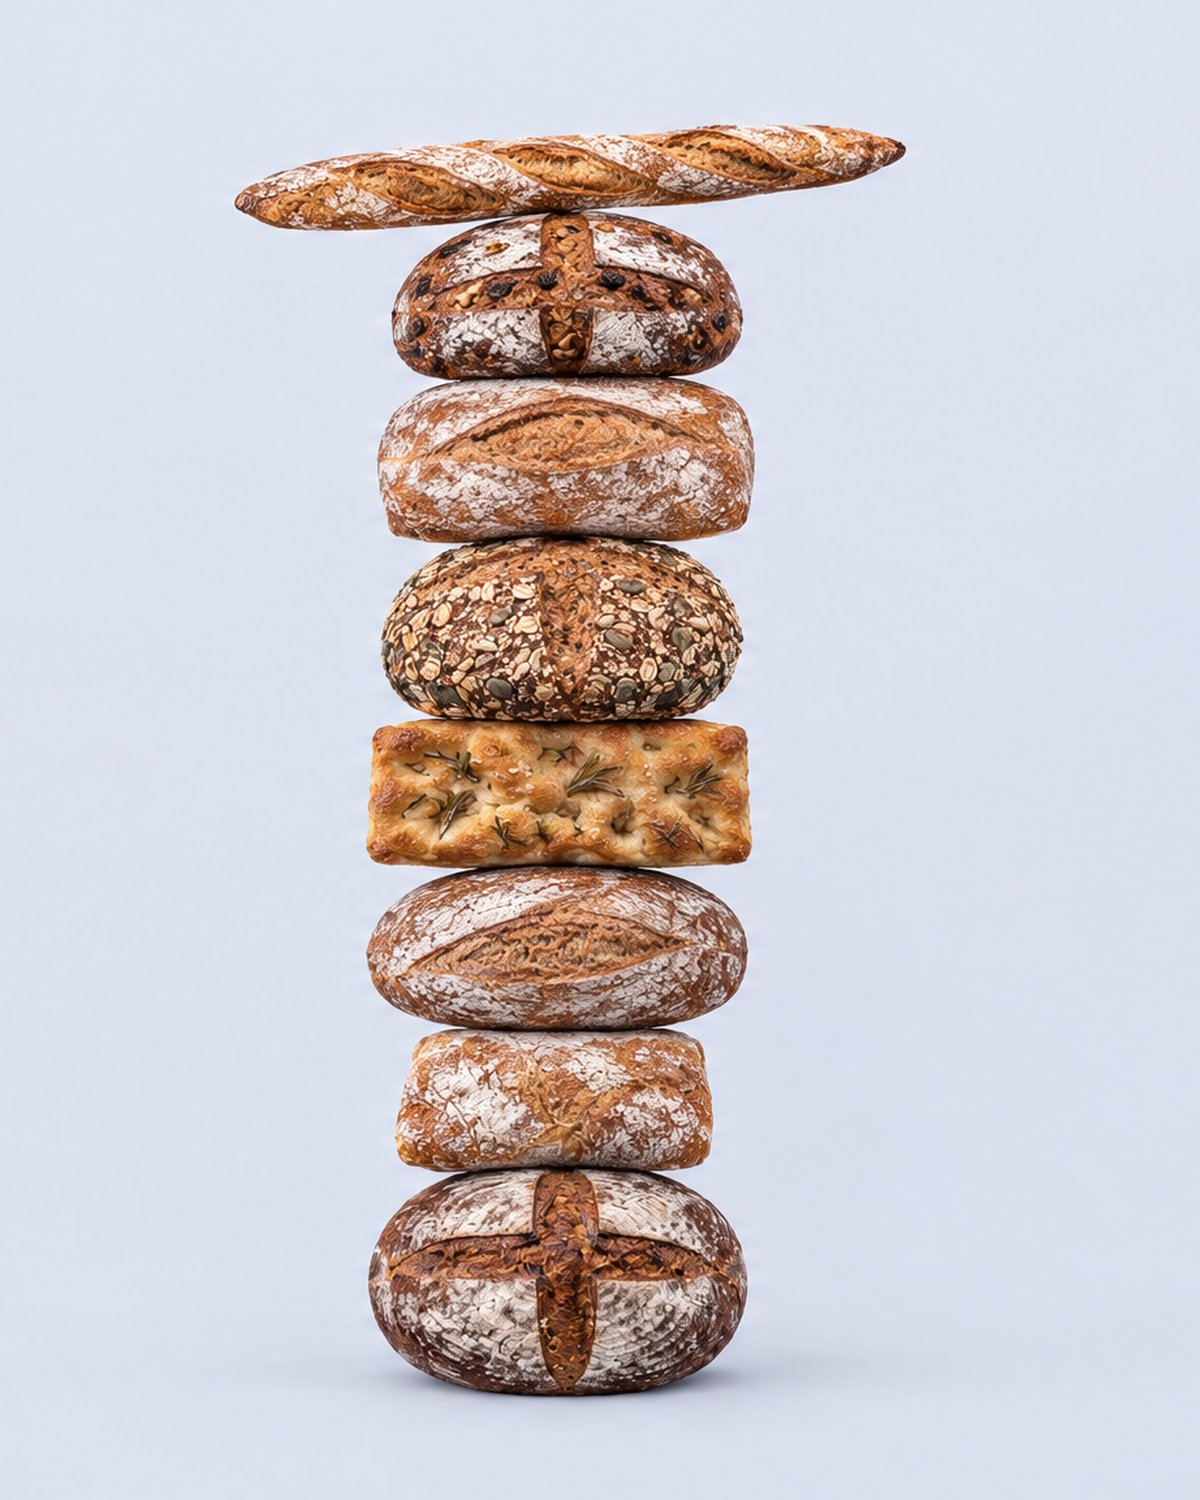
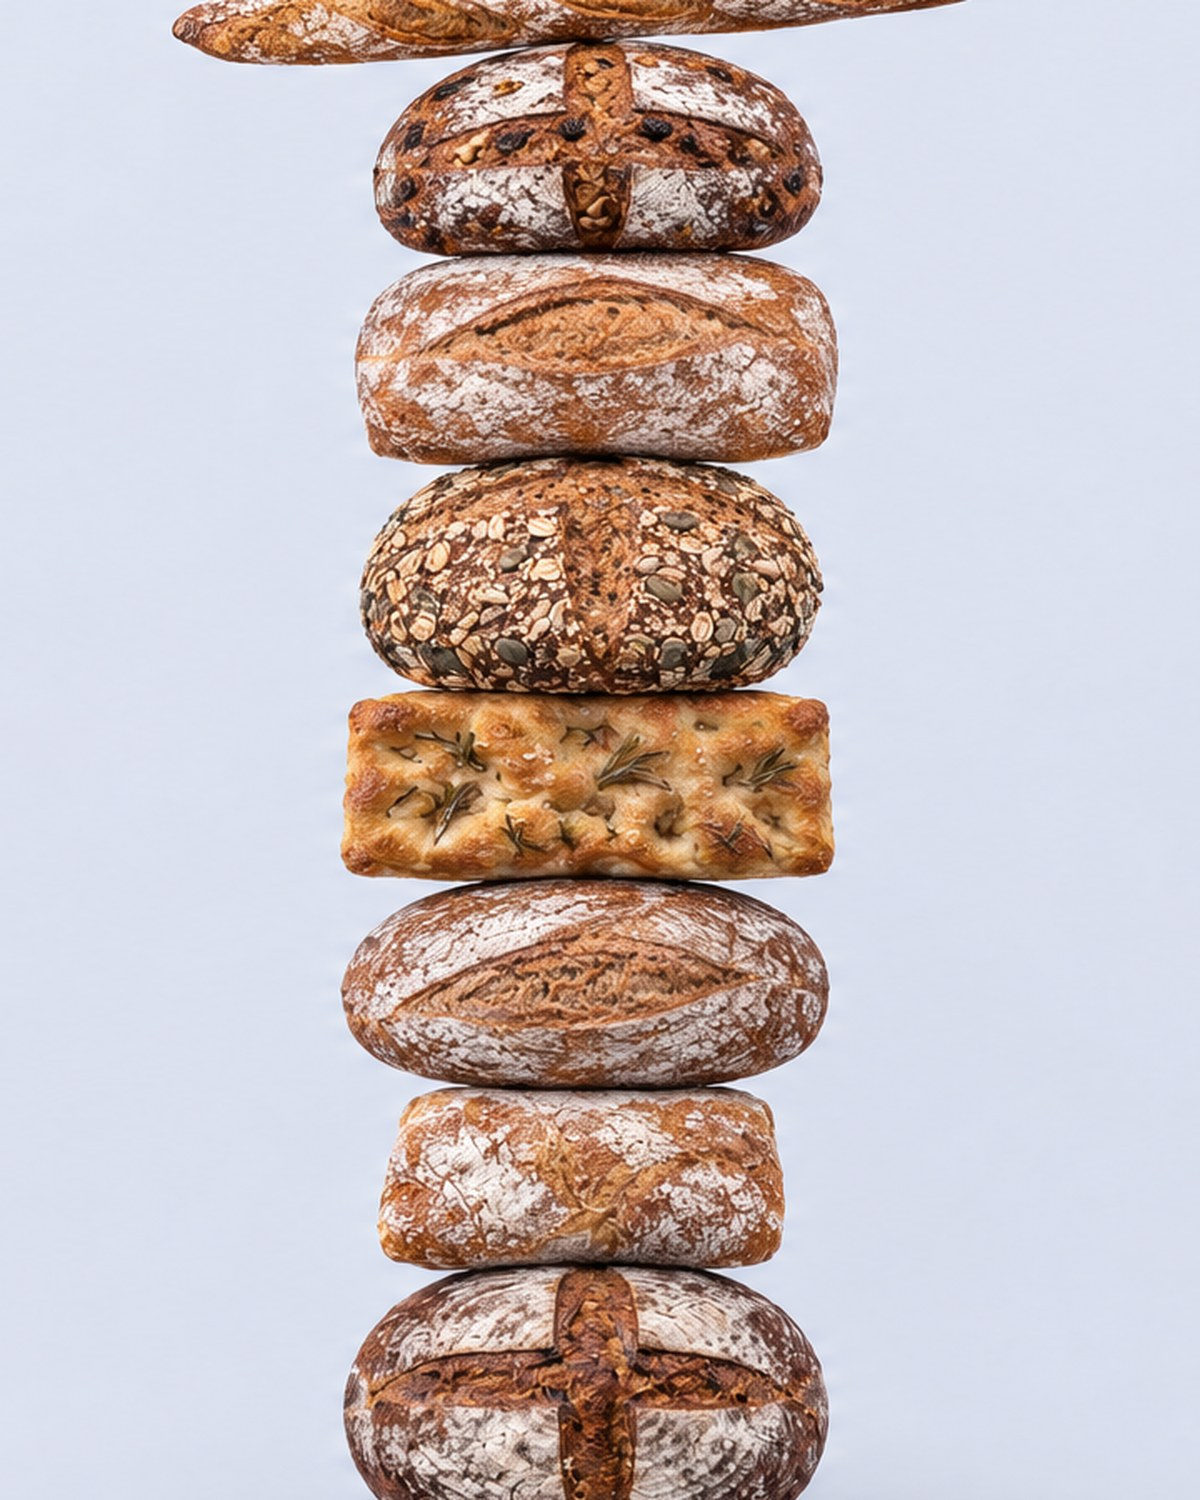
Portada con más zoom, título y botón en pantallas grandes y sin banda en la ficha de producto

diff --git a/producto.html b/producto.html
@@ -79,127 +79,6 @@
     <div id="cursor" class="cursor" aria-hidden="true"></div>
 
     <main id="producto" class="pb-seccion">
-        <section id="hornadas" class="bg-acento text-texto flex overflow-hidden" aria-label="Hornadas de hoy">
-            <p class="relative z-10 flex-none px-margen py-3 flex items-center gap-2 border-r border-texto/20 bg-acento uppercase tracking-wider whitespace-nowrap" aria-live="polite">
-                <span class="hidden sm:inline text-texto/60">Próxima hornada</span>
-                <span class="sm:hidden text-texto/60">Próxima</span>
-                <span id="cuenta-atras">—</span>
-            </p>
-            <div class="banda flex w-max">
-                <ul class="py-3 pr-10 flex items-center gap-10 whitespace-nowrap uppercase tracking-wider">
-                    <li data-hora="08:00" class="flex items-center gap-3">
-                        <span class="punto size-1.5 rounded-full bg-texto invisible"></span>
-                        <img src="img/recortes/barra.png" alt="" width="101" height="160" class="h-6 w-auto">
-                        <span>08:00</span>
-                        <span class="text-texto/60">Barras</span>
-                    </li>
-                    <li data-hora="11:30" class="flex items-center gap-3">
-                        <span class="punto size-1.5 rounded-full bg-texto invisible"></span>
-                        <img src="img/recortes/hogaza-centeno.png" alt="" width="157" height="160" class="h-6 w-auto">
-                        <span>11:30</span>
-                        <span class="text-texto/60">Hogazas</span>
-                    </li>
-                    <li data-hora="18:00" class="flex items-center gap-3">
-                        <span class="punto size-1.5 rounded-full bg-texto invisible"></span>
-                        <img src="img/recortes/focaccia.png" alt="" width="120" height="160" class="h-6 w-auto">
-                        <span>18:00</span>
-                        <span class="text-texto/60">Focaccia</span>
-                    </li>
-                    <li data-hora="08:00" aria-hidden="true" class="flex items-center gap-3">
-                        <span class="punto size-1.5 rounded-full bg-texto invisible"></span>
-                        <img src="img/recortes/barra.png" alt="" width="101" height="160" class="h-6 w-auto">
-                        <span>08:00</span>
-                        <span class="text-texto/60">Barras</span>
-                    </li>
-                    <li data-hora="11:30" aria-hidden="true" class="flex items-center gap-3">
-                        <span class="punto size-1.5 rounded-full bg-texto invisible"></span>
-                        <img src="img/recortes/hogaza-centeno.png" alt="" width="157" height="160" class="h-6 w-auto">
-                        <span>11:30</span>
-                        <span class="text-texto/60">Hogazas</span>
-                    </li>
-                    <li data-hora="18:00" aria-hidden="true" class="flex items-center gap-3">
-                        <span class="punto size-1.5 rounded-full bg-texto invisible"></span>
-                        <img src="img/recortes/focaccia.png" alt="" width="120" height="160" class="h-6 w-auto">
-                        <span>18:00</span>
-                        <span class="text-texto/60">Focaccia</span>
-                    </li>
-                    <li data-hora="08:00" aria-hidden="true" class="flex items-center gap-3">
-                        <span class="punto size-1.5 rounded-full bg-texto invisible"></span>
-                        <img src="img/recortes/barra.png" alt="" width="101" height="160" class="h-6 w-auto">
-                        <span>08:00</span>
-                        <span class="text-texto/60">Barras</span>
-                    </li>
-                    <li data-hora="11:30" aria-hidden="true" class="flex items-center gap-3">
-                        <span class="punto size-1.5 rounded-full bg-texto invisible"></span>
-                        <img src="img/recortes/hogaza-centeno.png" alt="" width="157" height="160" class="h-6 w-auto">
-                        <span>11:30</span>
-                        <span class="text-texto/60">Hogazas</span>
-                    </li>
-                    <li data-hora="18:00" aria-hidden="true" class="flex items-center gap-3">
-                        <span class="punto size-1.5 rounded-full bg-texto invisible"></span>
-                        <img src="img/recortes/focaccia.png" alt="" width="120" height="160" class="h-6 w-auto">
-                        <span>18:00</span>
-                        <span class="text-texto/60">Focaccia</span>
-                    </li>
-                </ul>
-                <ul class="py-3 pr-10 flex items-center gap-10 whitespace-nowrap uppercase tracking-wider" aria-hidden="true">
-                    <li data-hora="08:00" aria-hidden="true" class="flex items-center gap-3">
-                        <span class="punto size-1.5 rounded-full bg-texto invisible"></span>
-                        <img src="img/recortes/barra.png" alt="" width="101" height="160" class="h-6 w-auto">
-                        <span>08:00</span>
-                        <span class="text-texto/60">Barras</span>
-                    </li>
-                    <li data-hora="11:30" aria-hidden="true" class="flex items-center gap-3">
-                        <span class="punto size-1.5 rounded-full bg-texto invisible"></span>
-                        <img src="img/recortes/hogaza-centeno.png" alt="" width="157" height="160" class="h-6 w-auto">
-                        <span>11:30</span>
-                        <span class="text-texto/60">Hogazas</span>
-                    </li>
-                    <li data-hora="18:00" aria-hidden="true" class="flex items-center gap-3">
-                        <span class="punto size-1.5 rounded-full bg-texto invisible"></span>
-                        <img src="img/recortes/focaccia.png" alt="" width="120" height="160" class="h-6 w-auto">
-                        <span>18:00</span>
-                        <span class="text-texto/60">Focaccia</span>
-                    </li>
-                    <li data-hora="08:00" aria-hidden="true" class="flex items-center gap-3">
-                        <span class="punto size-1.5 rounded-full bg-texto invisible"></span>
-                        <img src="img/recortes/barra.png" alt="" width="101" height="160" class="h-6 w-auto">
-                        <span>08:00</span>
-                        <span class="text-texto/60">Barras</span>
-                    </li>
-                    <li data-hora="11:30" aria-hidden="true" class="flex items-center gap-3">
-                        <span class="punto size-1.5 rounded-full bg-texto invisible"></span>
-                        <img src="img/recortes/hogaza-centeno.png" alt="" width="157" height="160" class="h-6 w-auto">
-                        <span>11:30</span>
-                        <span class="text-texto/60">Hogazas</span>
-                    </li>
-                    <li data-hora="18:00" aria-hidden="true" class="flex items-center gap-3">
-                        <span class="punto size-1.5 rounded-full bg-texto invisible"></span>
-                        <img src="img/recortes/focaccia.png" alt="" width="120" height="160" class="h-6 w-auto">
-                        <span>18:00</span>
-                        <span class="text-texto/60">Focaccia</span>
-                    </li>
-                    <li data-hora="08:00" aria-hidden="true" class="flex items-center gap-3">
-                        <span class="punto size-1.5 rounded-full bg-texto invisible"></span>
-                        <img src="img/recortes/barra.png" alt="" width="101" height="160" class="h-6 w-auto">
-                        <span>08:00</span>
-                        <span class="text-texto/60">Barras</span>
-                    </li>
-                    <li data-hora="11:30" aria-hidden="true" class="flex items-center gap-3">
-                        <span class="punto size-1.5 rounded-full bg-texto invisible"></span>
-                        <img src="img/recortes/hogaza-centeno.png" alt="" width="157" height="160" class="h-6 w-auto">
-                        <span>11:30</span>
-                        <span class="text-texto/60">Hogazas</span>
-                    </li>
-                    <li data-hora="18:00" aria-hidden="true" class="flex items-center gap-3">
-                        <span class="punto size-1.5 rounded-full bg-texto invisible"></span>
-                        <img src="img/recortes/focaccia.png" alt="" width="120" height="160" class="h-6 w-auto">
-                        <span>18:00</span>
-                        <span class="text-texto/60">Focaccia</span>
-                    </li>
-                </ul>
-            </div>
-        </section>
         <section class="px-margen pt-4 md:relative">
             <div class="flex gap-0 md:-mr-margen">
                 <div class="hidden md:block md:w-44 lg:w-60 md:flex-none"></div>

diff --git a/index.html b/index.html
@@ -79,14 +79,17 @@
     <div id="cursor" class="cursor" aria-hidden="true"></div>
 
     <main>
-        <section aria-labelledby="portada-titulo">
-            <h1 id="portada-titulo" class="sr-only">Obrador, pan de masa madre, tres hornadas al día</h1>
+        <section class="relative" aria-labelledby="portada-titulo">
             <a href="coleccion.html" aria-label="Ver el pan" class="relative block aspect-portada md:aspect-hero bg-superficie dark:bg-superficie-noche overflow-hidden focus-visible:outline-2 focus-visible:-outline-offset-2 focus-visible:outline-acento">
                 <picture>
-                    <source media="(width >= 48rem)" srcset="img/portada/portada-escritorio.jpg" width="2400" height="960">
-                    <img src="img/portada/portada-movil.jpg" alt="Torre de los ocho panes de Obrador apilados, de la hogaza de centeno a la barra" width="1200" height="1500" class="portada-zoom absolute inset-0 size-full object-cover">
+                    <source media="(width >= 48rem)" srcset="img/portada/portada-escritorio.jpg?v=3" width="2400" height="960">
+                    <img src="img/portada/portada-movil.jpg?v=3" alt="Torre de los ocho panes de Obrador apilados, de la hogaza de centeno a la barra" width="1200" height="1500" class="portada-zoom absolute inset-0 size-full object-cover">
                 </picture>
             </a>
+            <div class="xl:absolute xl:inset-x-0 xl:bottom-0 xl:p-8 xl:flex xl:items-end xl:justify-between xl:gap-4 text-texto xl:pointer-events-none">
+                <h1 id="portada-titulo" class="sr-only xl:not-sr-only font-titulo xl:text-display tracking-titulo max-w-[18ch]">Pan de masa madre, tres hornadas al día.</h1>
+                <a href="coleccion.html" class="hidden xl:block pointer-events-auto border border-texto px-4 py-2 uppercase tracking-wider hover:bg-texto hover:text-fondo focus-visible:outline-2 focus-visible:outline-offset-2 focus-visible:outline-acento">Ver el pan</a>
+            </div>
         </section>
 
         <section id="hornadas" class="bg-acento text-texto flex overflow-hidden" aria-label="Hornadas de hoy">
